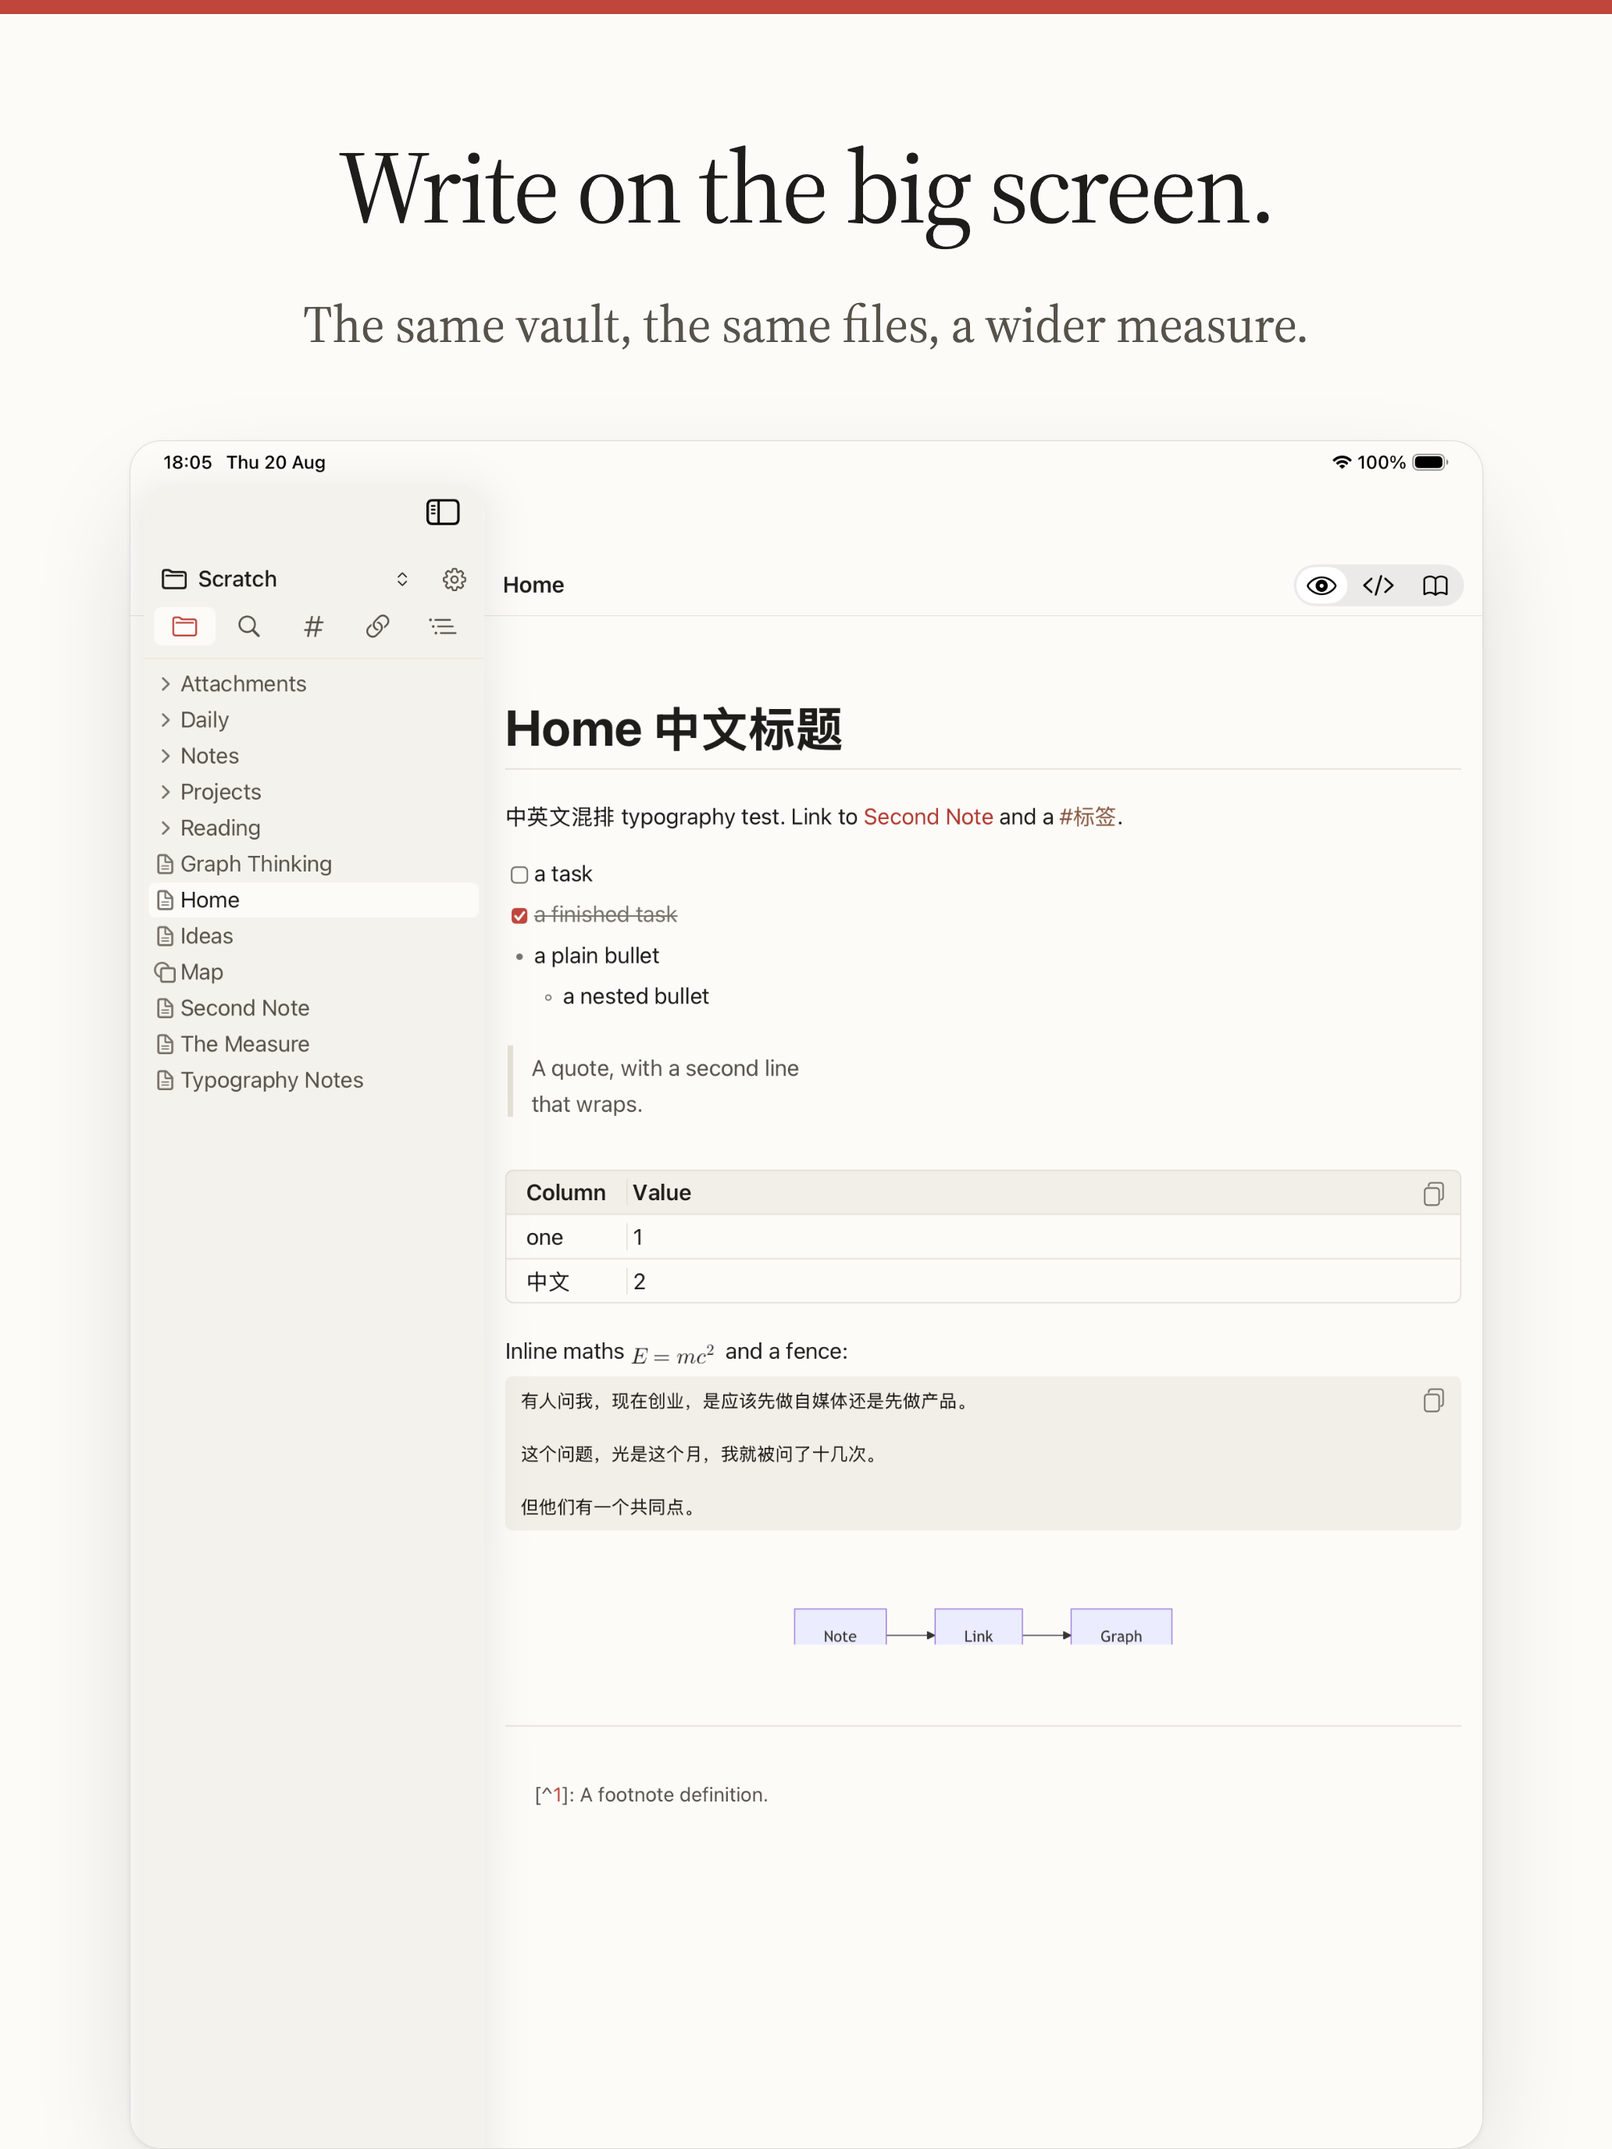
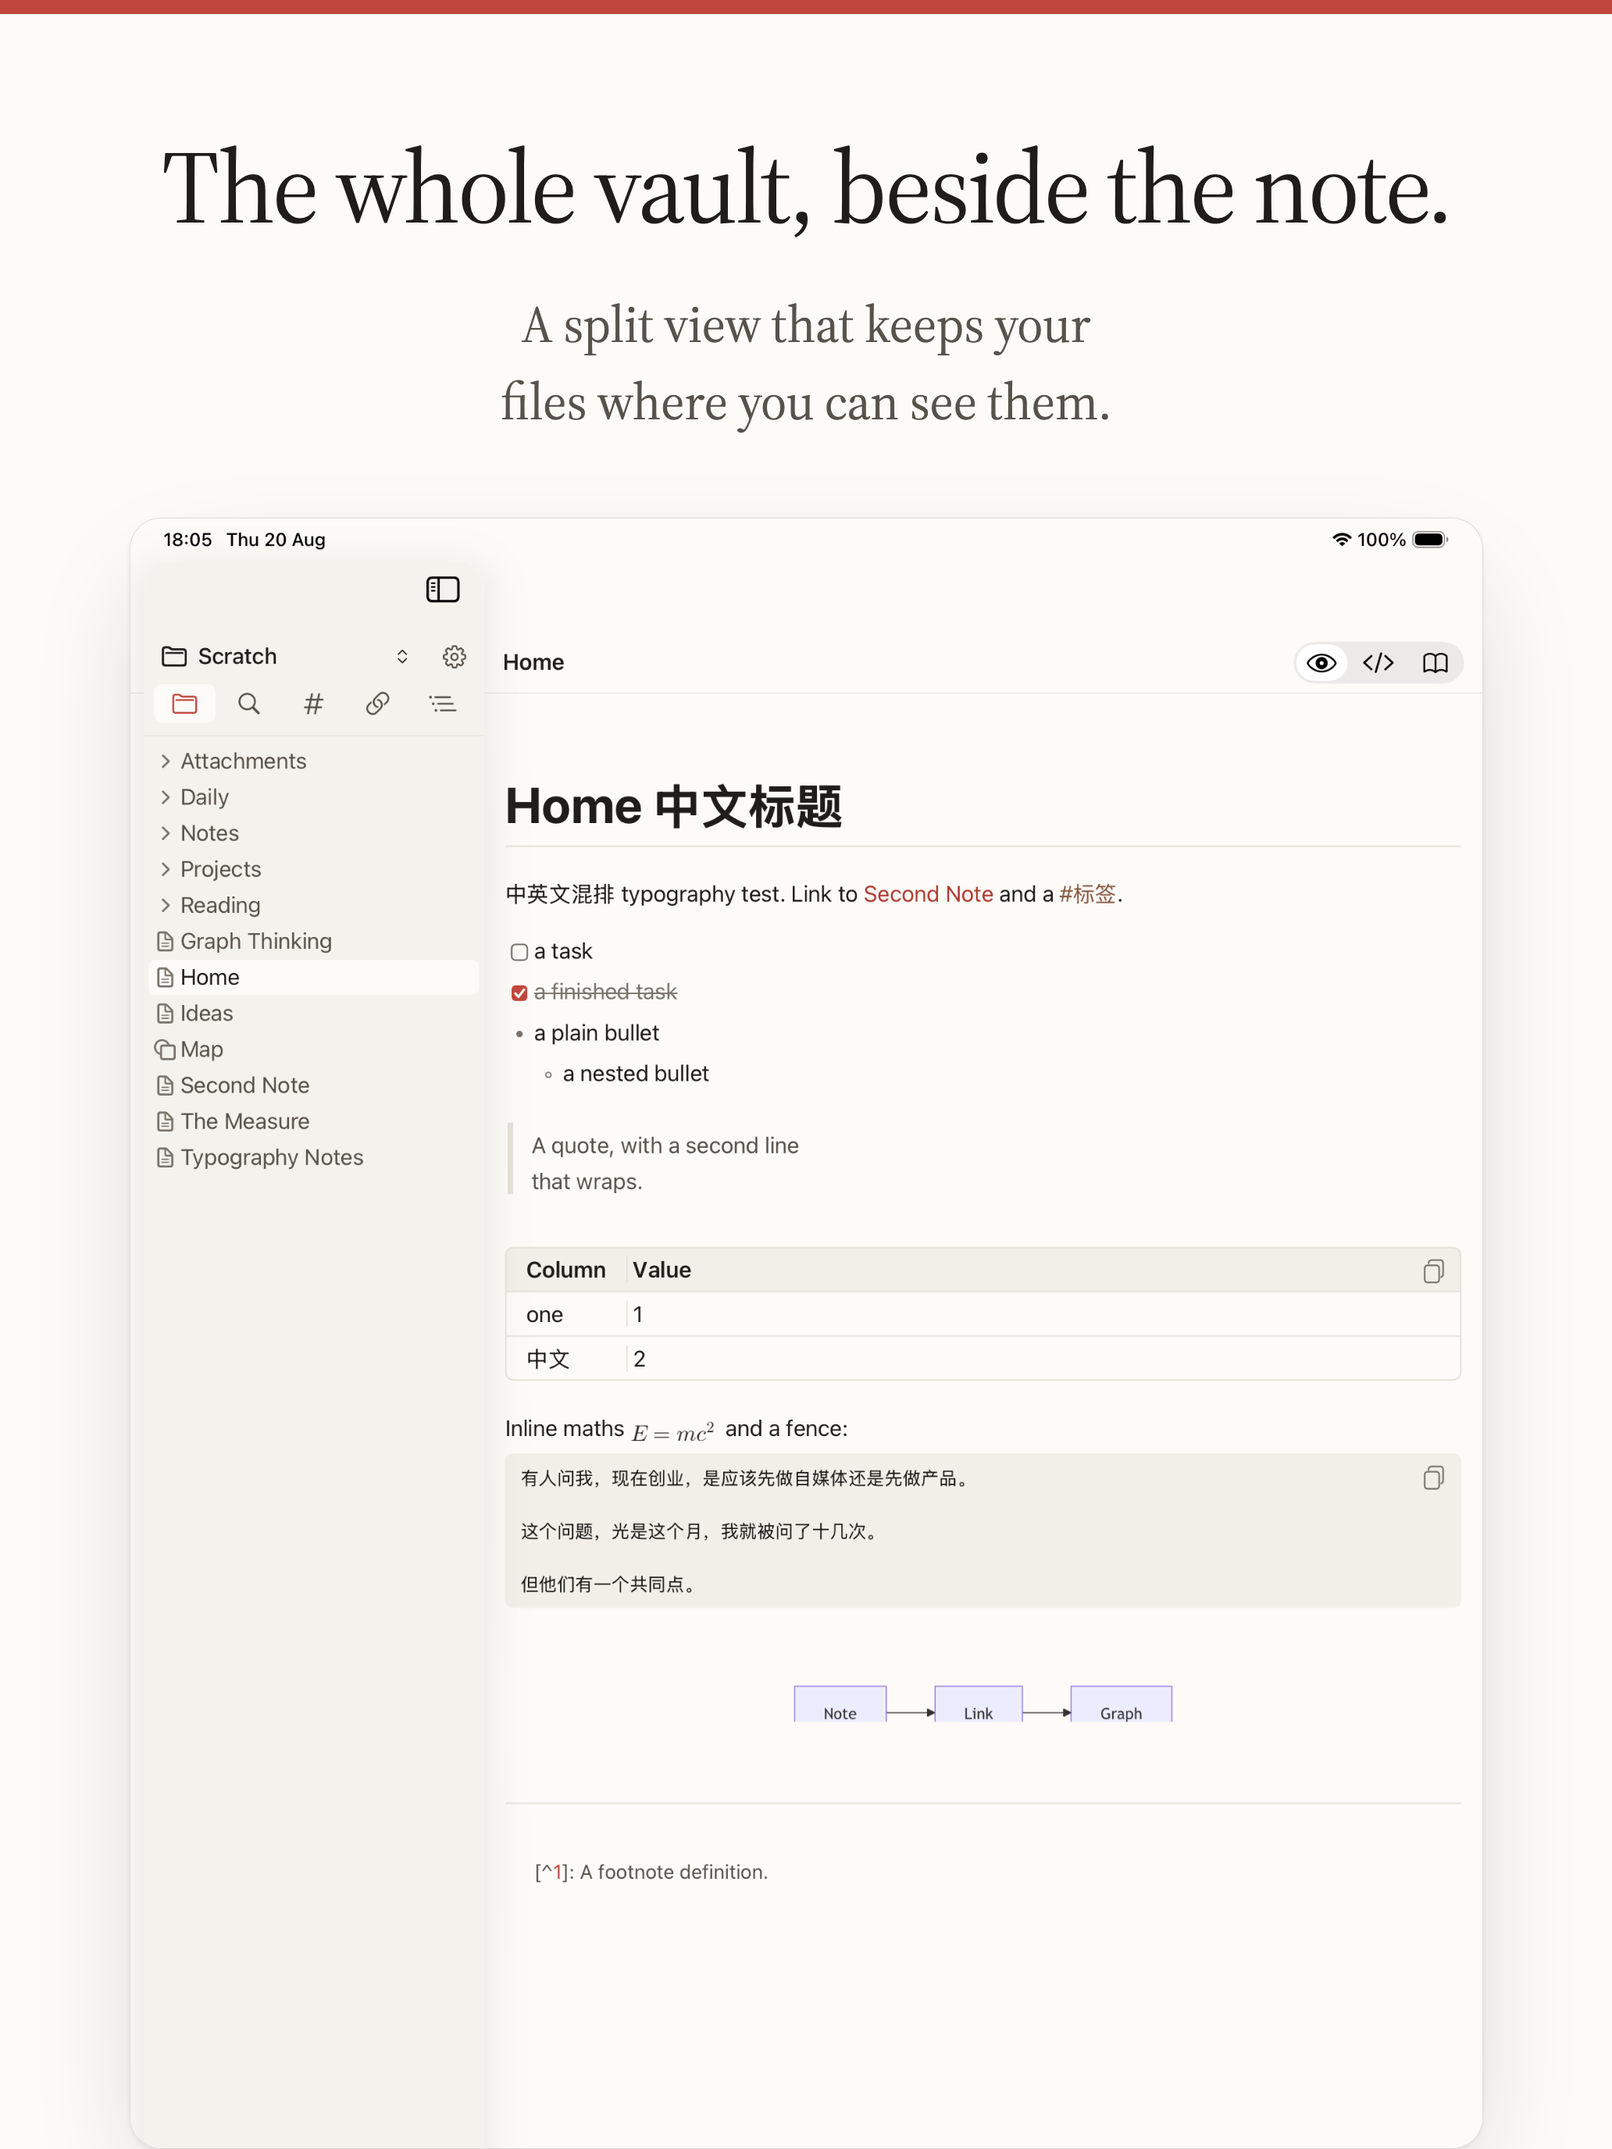
Ship for iPad properly, and stop letting Apple find these by email
The first App Store upload failed with two errors, both real and both invisible
to every check that ran before it:

  90474  no orientations declared. Not optional once the app ships for iPad —
         multitasking requires all four, and the bundle declared none at all.
  90717  the large app icon contains an alpha channel. iOS masks corners itself,
         so the marketing icon has to be a fully opaque square.

The icon fix is in the generator rather than the file, so it survives the next
regeneration: the light artwork is flattened onto its own top-of-gradient paper,
which fills the rounded corners without the bright halo that flattening onto
white would leave. Dark and tinted keep their alpha deliberately — the system
composites those over its own background, and a flattened one would show a
rectangle of the wrong colour.

Both are now asserted in Tools/package-ios.sh, which fails the build instead of
the upload. The icon check reads the asset-catalog *source*, not the built
bundle: the 1024 marketing icon is compiled into Assets.car and is not a loose
file, so a check against $APP/AppIcon*.png inspects the small icons and passes
every time — a check that cannot fail is worse than no check.

The iPad screenshot set also went from three to six, to match iPhone. They are
their own argument rather than resized iPhone ones: the split view keeps the
whole vault beside the note, which is what the bigger screen actually buys.
[…]

diff --git a/Tools/asc_listing.py b/Tools/asc_listing.py
@@ -1,0 +1,182 @@
+#!/usr/bin/env python3
+"""Set the App Store listing fields that `asc` does not cover, via the API.
+
+    Tools/asc_listing.py <app-id> [--version 0.1.1]
+
+This exists because five things turned out to need the raw API, each discovered
+by trying the obvious thing first and reading the error:
+
+  * **The app name is not on the app.** It lives on an `appInfoLocalization`,
+    and `asc apps info edit` has no `--name`. Worth knowing: creating the app
+    with `asc apps create` silently auto-renames when the name is taken, so
+    "Inkstone" became "Inkstone - inkstone" and had to be corrected here.
+  * **The version string must match the build.** App creation makes a default
+    `1.0`; an IPA at 0.1.1 will not attach to it.
+  * **`asc metadata pull` returns only `app-info` for a fresh app**, because the
+    version localization does not exist yet. It has to be created, not pushed.
+  * **`whatsNew` cannot be set on a first version** — the API returns
+    STATE_ERROR, which is correct: there is nothing for it to be new against.
+  * **The age rating declaration requires every attribute**, not the non-null
+    ones. Sending a partial set returns "you must provide a value for
+    'gunsOrOtherWeapons'" one field at a time.
+
+Everything here is idempotent: run it twice and the second run is a no-op.
+"""
+from __future__ import annotations
+
+import argparse
+import json
+import pathlib
+import sys
+import time
+import urllib.error
+import urllib.request
+
+import jwt
+
+KEY_ID = "UYGG95M882"
+ISSUER = "ea36e3b8-3c0a-4a03-819f-24061a386eb4"
+KEY_PATH = pathlib.Path.home() / ".private_keys" / f"AuthKey_{KEY_ID}.p8"
+META = pathlib.Path(__file__).resolve().parent.parent / "fastlane" / "metadata" / "en-US"
+
+# Every attribute the age rating declaration demands. Frequencies take "NONE",
+# the rest take false. This is a text editor: no ads, no gambling, no chat, and
+# no user-generated content from anyone but the person typing.
+FREQUENCIES = [
+    "alcoholTobaccoOrDrugUseOrReferences", "contests", "gamblingSimulated",
+    "gunsOrOtherWeapons", "horrorOrFearThemes", "matureOrSuggestiveThemes",
+    "medicalOrTreatmentInformation", "profanityOrCrudeHumor",
+    "sexualContentGraphicAndNudity", "sexualContentOrNudity",
+    "violenceCartoonOrFantasy", "violenceRealisticProlongedGraphicOrSadistic",
+    "violenceRealistic",
+]
+BOOLEANS = [
+    "gambling", "unrestrictedWebAccess", "userGeneratedContent", "messagingAndChat",
+    "socialMedia", "parentalControls", "advertising", "healthOrWellnessTopics",
+    "lootBox", "ageAssurance", "socialMediaAgeRestricted",
+]
+
+
+def token() -> str:
+    return jwt.encode(
+        {"iss": ISSUER, "iat": int(time.time()), "exp": int(time.time()) + 900,
+         "aud": "appstoreconnect-v1"},
+        KEY_PATH.read_text(), algorithm="ES256",
+        headers={"kid": KEY_ID, "typ": "JWT"})
+
+
+def call(method: str, path: str, body=None):
+    url = path if path.startswith("http") else "https://api.appstoreconnect.apple.com" + path
+    request = urllib.request.Request(
+        url, data=json.dumps(body).encode() if body is not None else None, method=method,
+        headers={"Authorization": "Bearer " + token(), "Content-Type": "application/json"})
+    try:
+        with urllib.request.urlopen(request, timeout=60) as response:
+            return response.status, json.loads(response.read() or b"{}")
+    except urllib.error.HTTPError as error:
+        return error.code, json.loads(error.read() or b"{}")
+
+
+def read(name: str) -> str:
+    return (META / name).read_text(encoding="utf-8").strip()
+
+
+def explain(status: int, payload: dict, label: str) -> bool:
+    if status < 400:
+        print(f"  ok    {label}")
+        return True
+    for error in payload.get("errors", [])[:3]:
+        print(f"  FAIL  {label}: {error.get('code')} | {(error.get('detail') or '')[:150]}")
+    return False
+
+
+def main() -> int:
+    parser = argparse.ArgumentParser()
+    parser.add_argument("app_id")
+    parser.add_argument("--version", default="0.1.1")
+    args = parser.parse_args()
+
+    status, data = call("GET", f"/v1/apps/{args.app_id}/appInfos")
+    app_info = next(i for i in data["data"]
+                    if i["attributes"].get("appStoreState") == "PREPARE_FOR_SUBMISSION")
+    app_info_id = app_info["id"]
+
+    # --- name, subtitle, privacy policy -----------------------------------
+    status, data = call("GET", f"/v1/appInfos/{app_info_id}/appInfoLocalizations")
+    localization = next(l for l in data["data"] if l["attributes"]["locale"] == "en-US")
+    explain(*call("PATCH", f"/v1/appInfoLocalizations/{localization['id']}",
+                  {"data": {"type": "appInfoLocalizations", "id": localization["id"],
+                            "attributes": {"name": read("name.txt"),
+                                           "subtitle": read("subtitle.txt"),
+                                           "privacyPolicyUrl": read("privacy_url.txt")}}}),
+            "name / subtitle / privacy URL")
+
+    # --- categories --------------------------------------------------------
+    explain(*call("PATCH", f"/v1/appInfos/{app_info_id}",
+                  {"data": {"type": "appInfos", "id": app_info_id, "relationships": {
+                      "primaryCategory": {"data": {"type": "appCategories", "id": "PRODUCTIVITY"}},
+                      "secondaryCategory": {"data": {"type": "appCategories", "id": "UTILITIES"}}}}}),
+            "categories")
+
+    # --- content rights ----------------------------------------------------
+    explain(*call("PATCH", f"/v1/apps/{args.app_id}",
+                  {"data": {"type": "apps", "id": args.app_id,
+                            "attributes": {"contentRightsDeclaration":
+                                           "DOES_NOT_USE_THIRD_PARTY_CONTENT"}}}),
+            "content rights")
+
+    # --- age rating --------------------------------------------------------
+    status, data = call("GET", f"/v1/appInfos/{app_info_id}?include=ageRatingDeclaration")
+    declaration = next(i for i in data.get("included", [])
+                       if i["type"] == "ageRatingDeclarations")
+    attributes = {k: "NONE" for k in FREQUENCIES} | {k: False for k in BOOLEANS}
+    explain(*call("PATCH", f"/v1/ageRatingDeclarations/{declaration['id']}",
+                  {"data": {"type": "ageRatingDeclarations", "id": declaration["id"],
+                            "attributes": attributes}}),
+            f"age rating ({len(attributes)} attributes)")
+
+    # --- version string and listing copy -----------------------------------
+    status, data = call("GET", f"/v1/apps/{args.app_id}/appStoreVersions")
+    version = next((v for v in data["data"]
+                    if v["attributes"].get("appStoreState") == "PREPARE_FOR_SUBMISSION"), None)
+    if version is None:
+        print("  FAIL  no editable App Store version")
+        return 1
+    if version["attributes"]["versionString"] != args.version:
+        # App creation makes a default 1.0. A build at another version will not
+        # attach to it, and the mismatch is not reported until the attach fails.
+        explain(*call("PATCH", f"/v1/appStoreVersions/{version['id']}",
+                      {"data": {"type": "appStoreVersions", "id": version["id"],
+                                "attributes": {"versionString": args.version}}}),
+                f"version string -> {args.version}")
+
+    copy = {"description": read("description.txt"),
+            "keywords": read("keywords.txt"),
+            "promotionalText": read("promotional_text.txt"),
+            "marketingUrl": read("marketing_url.txt"),
+            "supportUrl": read("support_url.txt")}
+    # whatsNew is deliberately absent. On a first version the API rejects it
+    # with STATE_ERROR, and it is right to: there is no previous version.
+
+    status, data = call("GET", f"/v1/appStoreVersions/{version['id']}/appStoreVersionLocalizations")
+    existing = {l["attributes"]["locale"]: l["id"] for l in data.get("data", [])}
+    if "en-US" in existing:
+        explain(*call("PATCH", f"/v1/appStoreVersionLocalizations/{existing['en-US']}",
+                      {"data": {"type": "appStoreVersionLocalizations",
+                                "id": existing["en-US"], "attributes": copy}}),
+                "listing copy")
+    else:
+        explain(*call("POST", "/v1/appStoreVersionLocalizations",
+                      {"data": {"type": "appStoreVersionLocalizations",
+                                "attributes": copy | {"locale": "en-US"},
+                                "relationships": {"appStoreVersion": {
+                                    "data": {"type": "appStoreVersions", "id": version["id"]}}}}}),
+                "listing copy (created)")
+
+    print(f"\nversion localization id: {existing.get('en-US', '(new)')}")
+    print("screenshots go up with:  asc screenshots upload --version-localization <id> …")
+    return 0
+
+
+if __name__ == "__main__":
+    sys.exit(main())

diff --git a/Tools/generate-app-icon.py b/Tools/generate-app-icon.py
@@ -225,7 +225,24 @@ def main() -> None:
     masters = {name: render(palette) for name, palette in PALETTES.items()}
 
     for name, image in masters.items():
-        image.save(ICONSET / f"icon-ios-{name}.png")
+        if name == "light":
+            # The iOS marketing icon must be fully opaque. App Store upload
+            # rejects it otherwise, with error 90717 — "the large app icon ...
+            # can't be transparent or contain an alpha channel" — and the
+            # rejection arrives minutes after the upload, not during the build.
+            #
+            # Flattening onto the artwork's own top-of-gradient paper rather
+            # than onto white, so the rounded corners blend into the icon's
+            # background instead of showing a bright halo. iOS masks the corners
+            # itself, so nothing is lost by filling them.
+            backdrop = Image.new("RGB", image.size, PALETTES["light"]["paper_top"])
+            backdrop.paste(image, mask=image.split()[-1])
+            backdrop.save(ICONSET / "icon-ios-light.png")
+        else:
+            # Dark and tinted keep their alpha on purpose: the system composites
+            # those over its own background, so a flattened one would show a
+            # rectangle of the wrong colour behind the artwork.
+            image.save(ICONSET / f"icon-ios-{name}.png")
 
     # macOS uses the light artwork; the system handles its own dark treatment.
     light = masters["light"]

diff --git a/scripts/make-store-shots.py b/scripts/make-store-shots.py
@@ -56,13 +56,22 @@ IPHONE = [
      "Open it in any other editor, on any device, forever."),
 ]
 
+# The iPad set is its own argument, not a resized iPhone one: the split view
+# keeps the whole vault beside the note, which is the thing a bigger screen
+# actually buys. Six slides, to match iPhone.
 IPAD = [
-    ("ipad/01-live-preview", "Write on the big screen.",
-     "The same vault, the same files, a wider measure."),
+    ("ipad/01-live-preview", "The whole vault, beside the note.",
+     "A split view that keeps your files where you can see them."),
     ("ipad/02-typography", "中英文混排，终于排对了。",
-     "Body font and code font, set independently."),
+     "The gap between Han and Latin, set the way the standard asks for."),
     ("ipad/03-measure", "Every note knows what points at it.",
      "Backlinks and outgoing links, always in view."),
+    ("ipad/04-project", "Diagrams and maths, in place.",
+     "Mermaid and LaTeX render as you type — no plugin, no preview pane."),
+    ("ipad/05-callout", "Callouts, quotes, tasks.",
+     "GitHub Flavored Markdown, plus the Obsidian syntax you already use."),
+    ("ipad/06-reading", "Reading mode, when you want the page.",
+     "The same file, without the scaffolding."),
 ]
 
 
